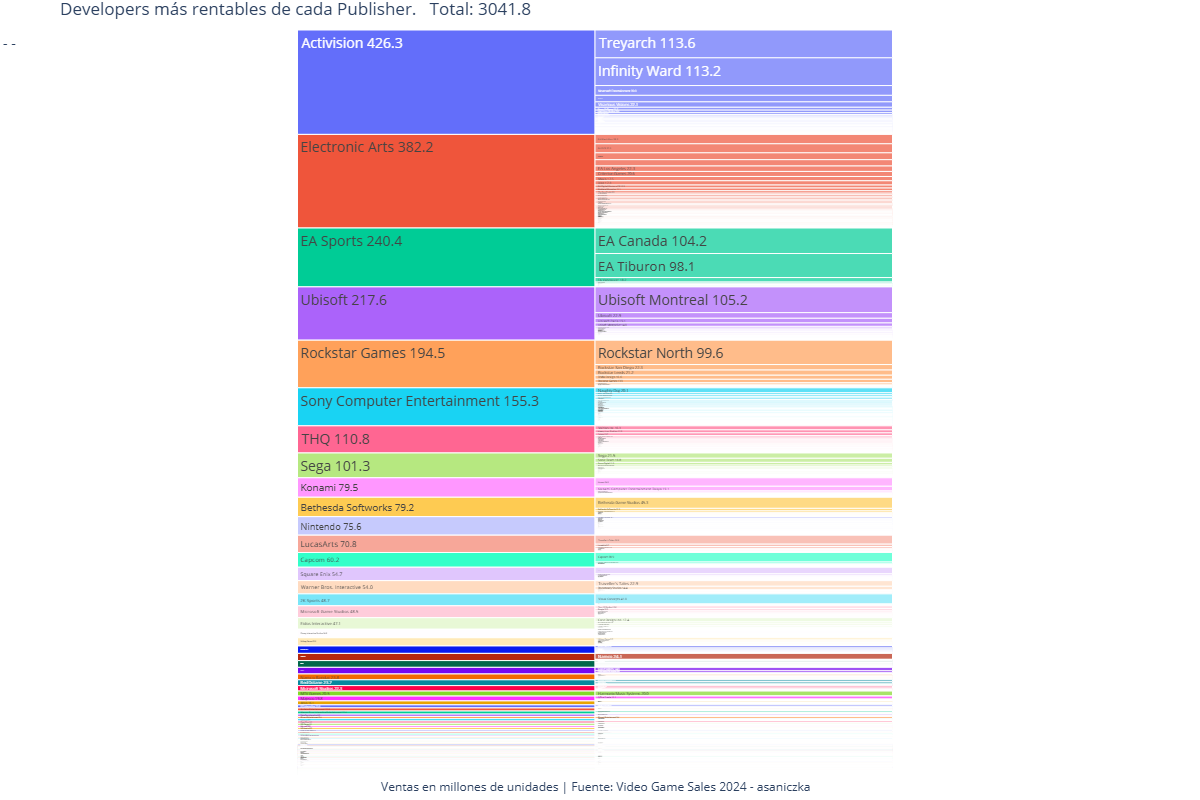
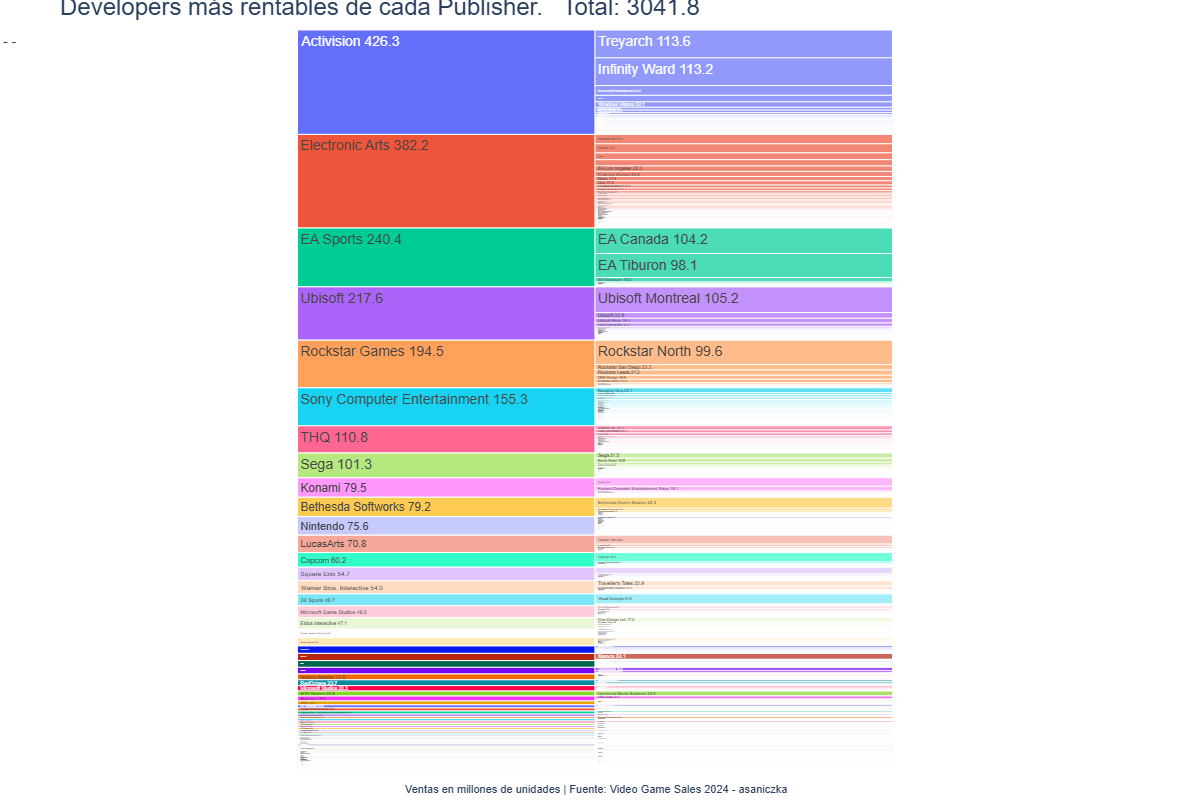
fix: arreglo error en grafico

diff --git a/Tarea-1/Codigos/EFRP/visualizacion.py b/Tarea-1/Codigos/EFRP/visualizacion.py
@@ -12,14 +12,21 @@ fig = px.icicle(
     df,
     path=["publisher", "developer"],
     values="total_sales",
-    title=f"Developers más rentables de cada Publisher.   Total: {total:.1f}"
+    title=f"Developers más rentables de cada Publisher.   Total: {total:.1f}",
 )
 
-# Layout
 fig.update_layout(
-    width=1200,
-    height=800,
     margin=dict(t=30, l=0, r=10, b=25),
+
+    font=dict(
+        family="Arial",
+    ),
+
+    title_font=dict(
+        family="Arial",
+        size=24
+    ),
+
     annotations=[
         dict(
             text='Ventas en millones de unidades | Fuente: Video Game Sales 2024 - asaniczka',
@@ -27,15 +34,23 @@ fig.update_layout(
             y=-0.03,
             showarrow=False,
             xref='paper',
-            yref='paper'
+            yref='paper',
+            font=dict(
+                family="Arial",
+                size=11
+            )
         )
     ]
 )
 
+# 🔥 Texto en nodos
 fig.update_traces(
     domain=dict(x=[0.0, 0.75]),
     texttemplate="%{label} %{value:.1f}",
-    textfont_size=14
+    textfont=dict(
+        family="Arial",
+        size=14
+    )
 )
 
 pio.write_image(fig, "icicle.png", width=1200, height=800)
